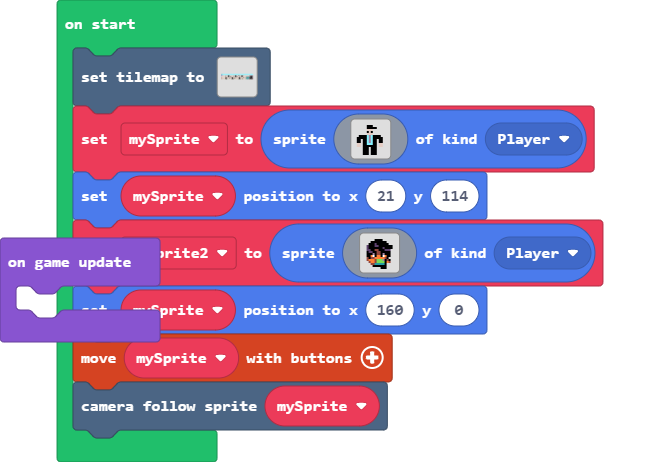
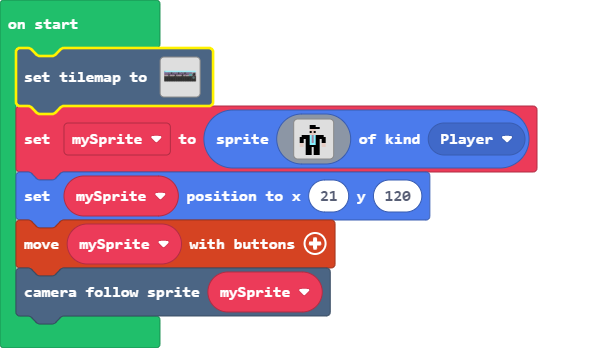
Update main.blocks, main.ts, tilemap.g.jres, tilemap.g.ts

diff --git a/tilemap.g.ts b/tilemap.g.ts
@@ -14,6 +14,16 @@ namespace myTiles {
     export const tile5 = image.ofBuffer(hex``);
     //% fixedInstance jres blockIdentity=images._tile
     export const tile6 = image.ofBuffer(hex``);
+    //% fixedInstance jres blockIdentity=images._tile
+    export const tile7 = image.ofBuffer(hex``);
+    //% fixedInstance jres blockIdentity=images._tile
+    export const tile8 = image.ofBuffer(hex``);
+    //% fixedInstance jres blockIdentity=images._tile
+    export const tile9 = image.ofBuffer(hex``);
+    //% fixedInstance jres blockIdentity=images._tile
+    export const tile10 = image.ofBuffer(hex``);
+    //% fixedInstance jres blockIdentity=images._tile
+    export const tile11 = image.ofBuffer(hex``);
 
     helpers._registerFactory("tilemap", function(name: string) {
         switch(helpers.stringTrim(name)) {
@@ -37,16 +47,24 @@ namespace myTiles {
 . . . . . . . . . . . . . . . . 
 `, [myTiles.transparency16], TileScale.Sixteen);
             case "level2":
[2 lines of base64/hex data omitted]
 ..222222222222222222222222222222222222222222222222
 ..222222222222222222222222222222222222222222222222
-22.........22.........22...2....22.........2....22
-.......2...22......2..22.....2..22.........2.22..2
-2..........22..2......22.2......22.....22222..2..2
-2......22........22.........22.....2...2....2.2..2
-2......22....2...22..2......22................2..2
-2......22........22.........22...2........222.2..2
-`, [myTiles.transparency16,sprites.castle.tileDarkGrass3,myTiles.tile1,myTiles.tile2,myTiles.tile3,sprites.swamp.swampTile4,sprites.swamp.swampTile5,sprites.dungeon.chestClosed,sprites.builtin.coral4,sprites.dungeon.collectibleInsignia,sprites.dungeon.greenOuterNorth1,sprites.dungeon.greenOuterNorth0,sprites.dungeon.stairNorth,sprites.dungeon.doorClosedNorth,sprites.dungeon.doorLockedNorth,sprites.builtin.crowd6,sprites.castle.saplingPine,sprites.castle.tilePath8,sprites.castle.tilePath5,myTiles.tile6,sprites.builtin.forestTiles10], TileScale.Sixteen);
+22.........22.........22...2....22.........2222222
+.......2...22......2..22.....2..22.........222...2
+2..........22..2......22.2......22.....222222....2
+2......22........22.........22.....2...2....2....2
+2......22....2...22..2......22..............2....2
+2......22........22.........22...2........222....2
+2222222222222222222222222222222222222222..222..222
+2............................................222.2
+2............................................222.2
+2............................................222.2
+2................................................2
+2................................................2
+2................................................2
+2................................................2
+`, [myTiles.transparency16,sprites.castle.tileDarkGrass3,myTiles.tile1,myTiles.tile2,myTiles.tile3,sprites.swamp.swampTile4,sprites.swamp.swampTile5,sprites.dungeon.chestClosed,sprites.builtin.coral4,sprites.dungeon.collectibleInsignia,sprites.dungeon.greenOuterNorth1,sprites.dungeon.greenOuterNorth0,sprites.dungeon.stairNorth,sprites.dungeon.doorClosedNorth,sprites.dungeon.doorLockedNorth,sprites.builtin.crowd6,sprites.castle.saplingPine,sprites.castle.tilePath8,myTiles.tile6,sprites.builtin.forestTiles10,sprites.builtin.forestTiles13,sprites.builtin.forestTiles9,sprites.builtin.forestTiles5,sprites.builtin.forestTiles6,sprites.builtin.forestTiles15,sprites.builtin.forestTiles7,sprites.builtin.forestTiles11,myTiles.tile7,sprites.dungeon.greenOuterNorthWest,sprites.dungeon.greenOuterNorthEast,sprites.dungeon.greenOuterWest1,sprites.dungeon.greenOuterEast0,sprites.dungeon.greenOuterSouthWest,sprites.dungeon.greenOuterSouth0,sprites.dungeon.greenOuterSouthEast,myTiles.tile11,sprites.dungeon.darkGroundCenter], TileScale.Sixteen);
         }
         return null;
     })
@@ -66,6 +84,16 @@ namespace myTiles {
             case "tile5":return tile5;
             case "myTile4":
             case "tile6":return tile6;
+            case "myTile5":
+            case "tile7":return tile7;
+            case "myTile6":
+            case "tile8":return tile8;
+            case "myTile7":
+            case "tile9":return tile9;
+            case "myTile8":
+            case "tile10":return tile10;
+            case "myTile9":
+            case "tile11":return tile11;
         }
         return null;
     })

diff --git a/main.ts b/main.ts
@@ -17,28 +17,6 @@ let mySprite = sprites.create(img`
     . . . . f f f . f f f . . . . . 
     . . . . f f f . f f f . . . . . 
     `, SpriteKind.Player)
-mySprite.setPosition(21, 114)
-let mySprite2 = sprites.create(img`
-    . . . . . . . . . . . . . 
-    . . . . f f f f . . . . . 
-    . . f f f f f f f f . . . 
-    . f f f c f f f f f f . . 
-    c f f f c c f f f f f f f 
-    c f f f f f f f c f f f f 
-    c c f f e e f f f c c c . 
-    f c c f f e e f f f f f . 
-    f f f b f e e f b f f f . 
-    f f 4 1 f 4 4 f 1 4 f f . 
-    e f e e 4 4 4 4 4 e f . . 
-    e 4 4 4 e 7 7 7 b f e f . 
-    . e 4 4 e 7 7 7 7 f 4 e . 
-    . . e e 6 6 6 6 6 f . . . 
-    . . . f f f f f f f . . . 
-    . . . . . . . f f f . . . 
-    `, SpriteKind.Player)
-mySprite.setPosition(160, 0)
+mySprite.setPosition(21, 120)
 controller.moveSprite(mySprite)
 scene.cameraFollowSprite(mySprite)
-game.onUpdate(function () {
-	
-})
